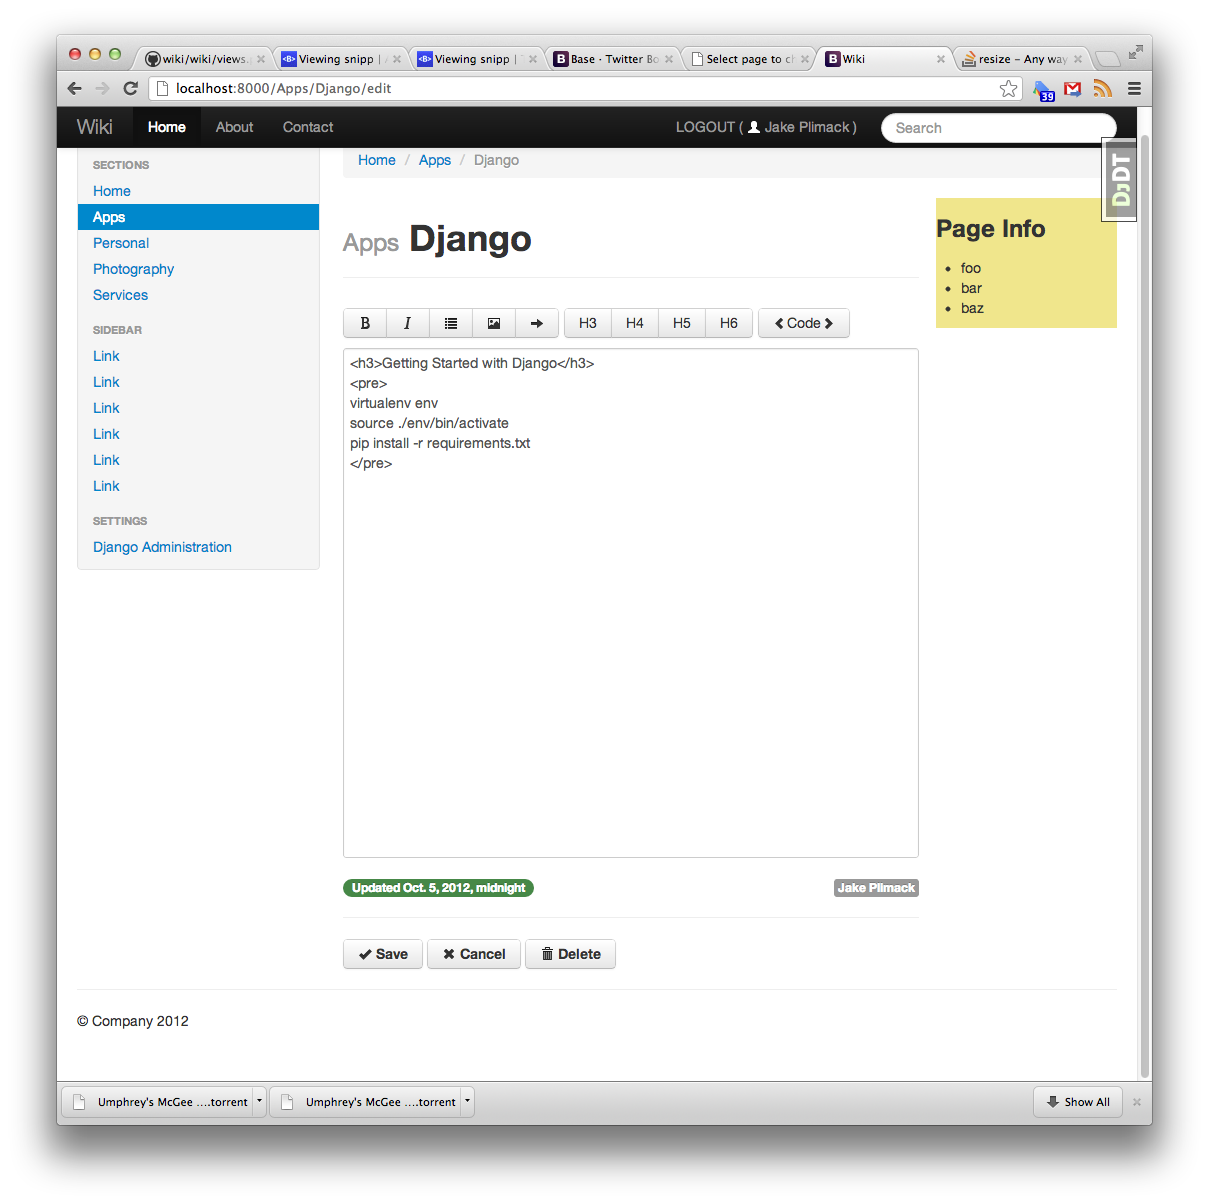
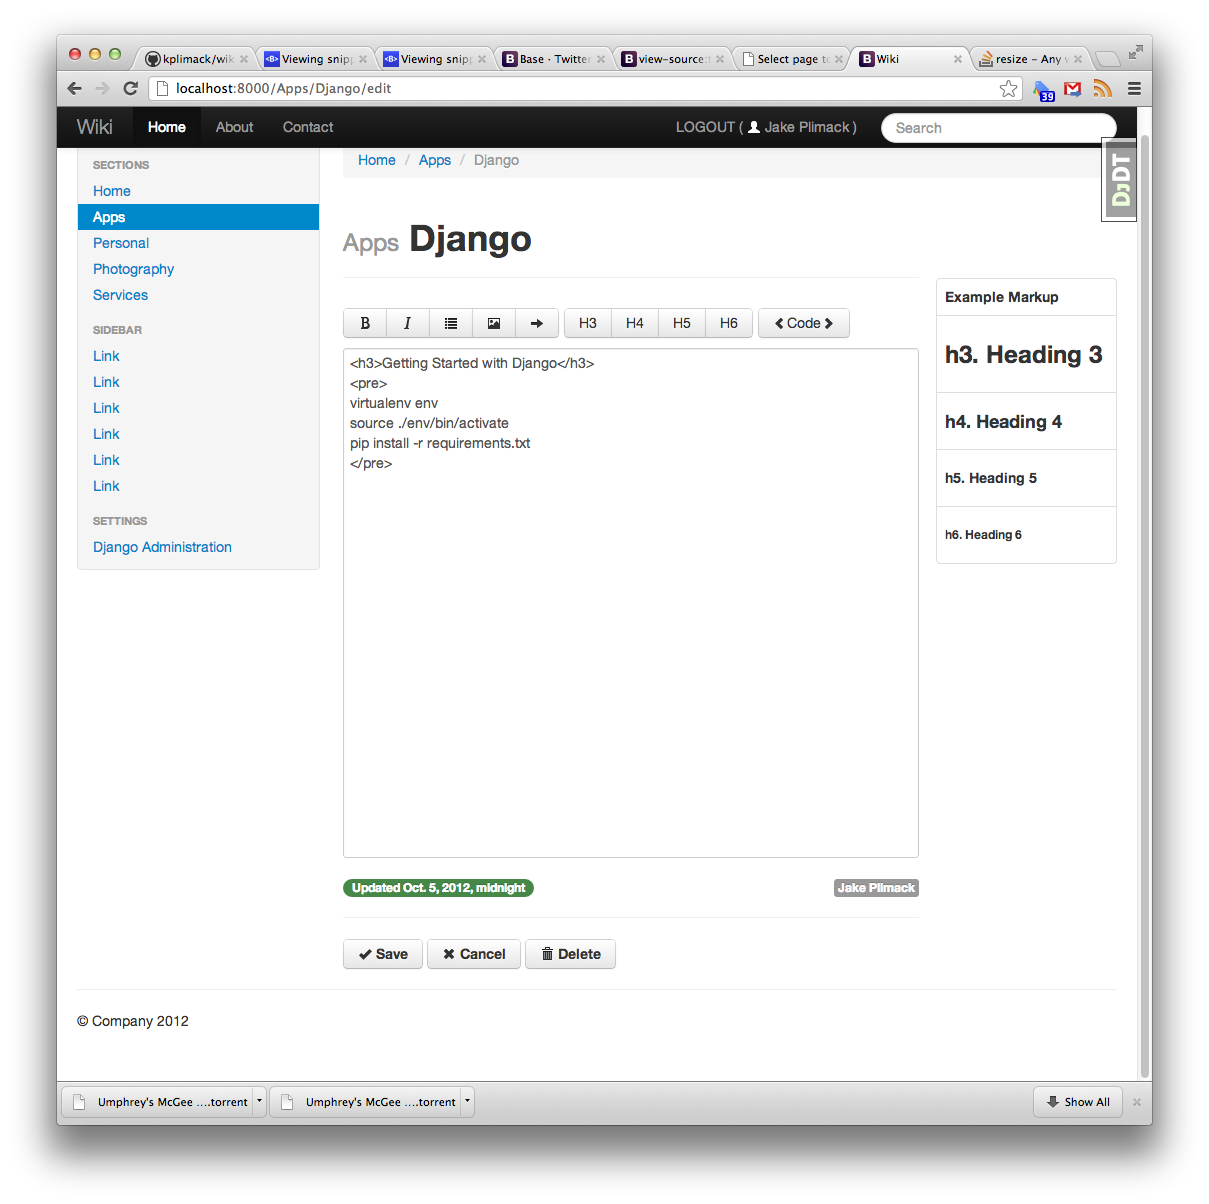
display example markup on edit page

diff --git a/static/templates/page_edit.html b/static/templates/page_edit.html
@@ -23,12 +23,7 @@
       <a href="#" class="btn"><i class="icon-trash"></i> <strong>Delete</strong></a>
     </div>
   </div><!--/span-->
-  <div class="span3" style="background: khaki;">
-    <h3>Page Info</h3>
-    <ul>
-      <li>foo</li>
-      <li>bar</li>
-      <li>baz</li>
-    </ul>
+  <div class="span3" style="margin-top: 80px;">
+    {% include "templates/page_edit_examples.html" %}
   </div>
 </div><!--/row-->

diff --git a/static/templates/page_edit_examples.html b/static/templates/page_edit_examples.html
@@ -1,0 +1,11 @@
+<table class="table table-bordered">
+  <thead>
+    <tr><th>Example Markup</th></tr>
+  </thead>
+  <tbody>
+    <tr><td><h3>h3. Heading 3</h3></td></tr>
+    <tr><td><h4>h4. Heading 4</h4></td></tr>
+    <tr><td><h5>h5. Heading 5</h5></td></tr>
+    <tr><td><h6>h6. Heading 6</h6></td></tr>
+  </tbody>
+</table>
